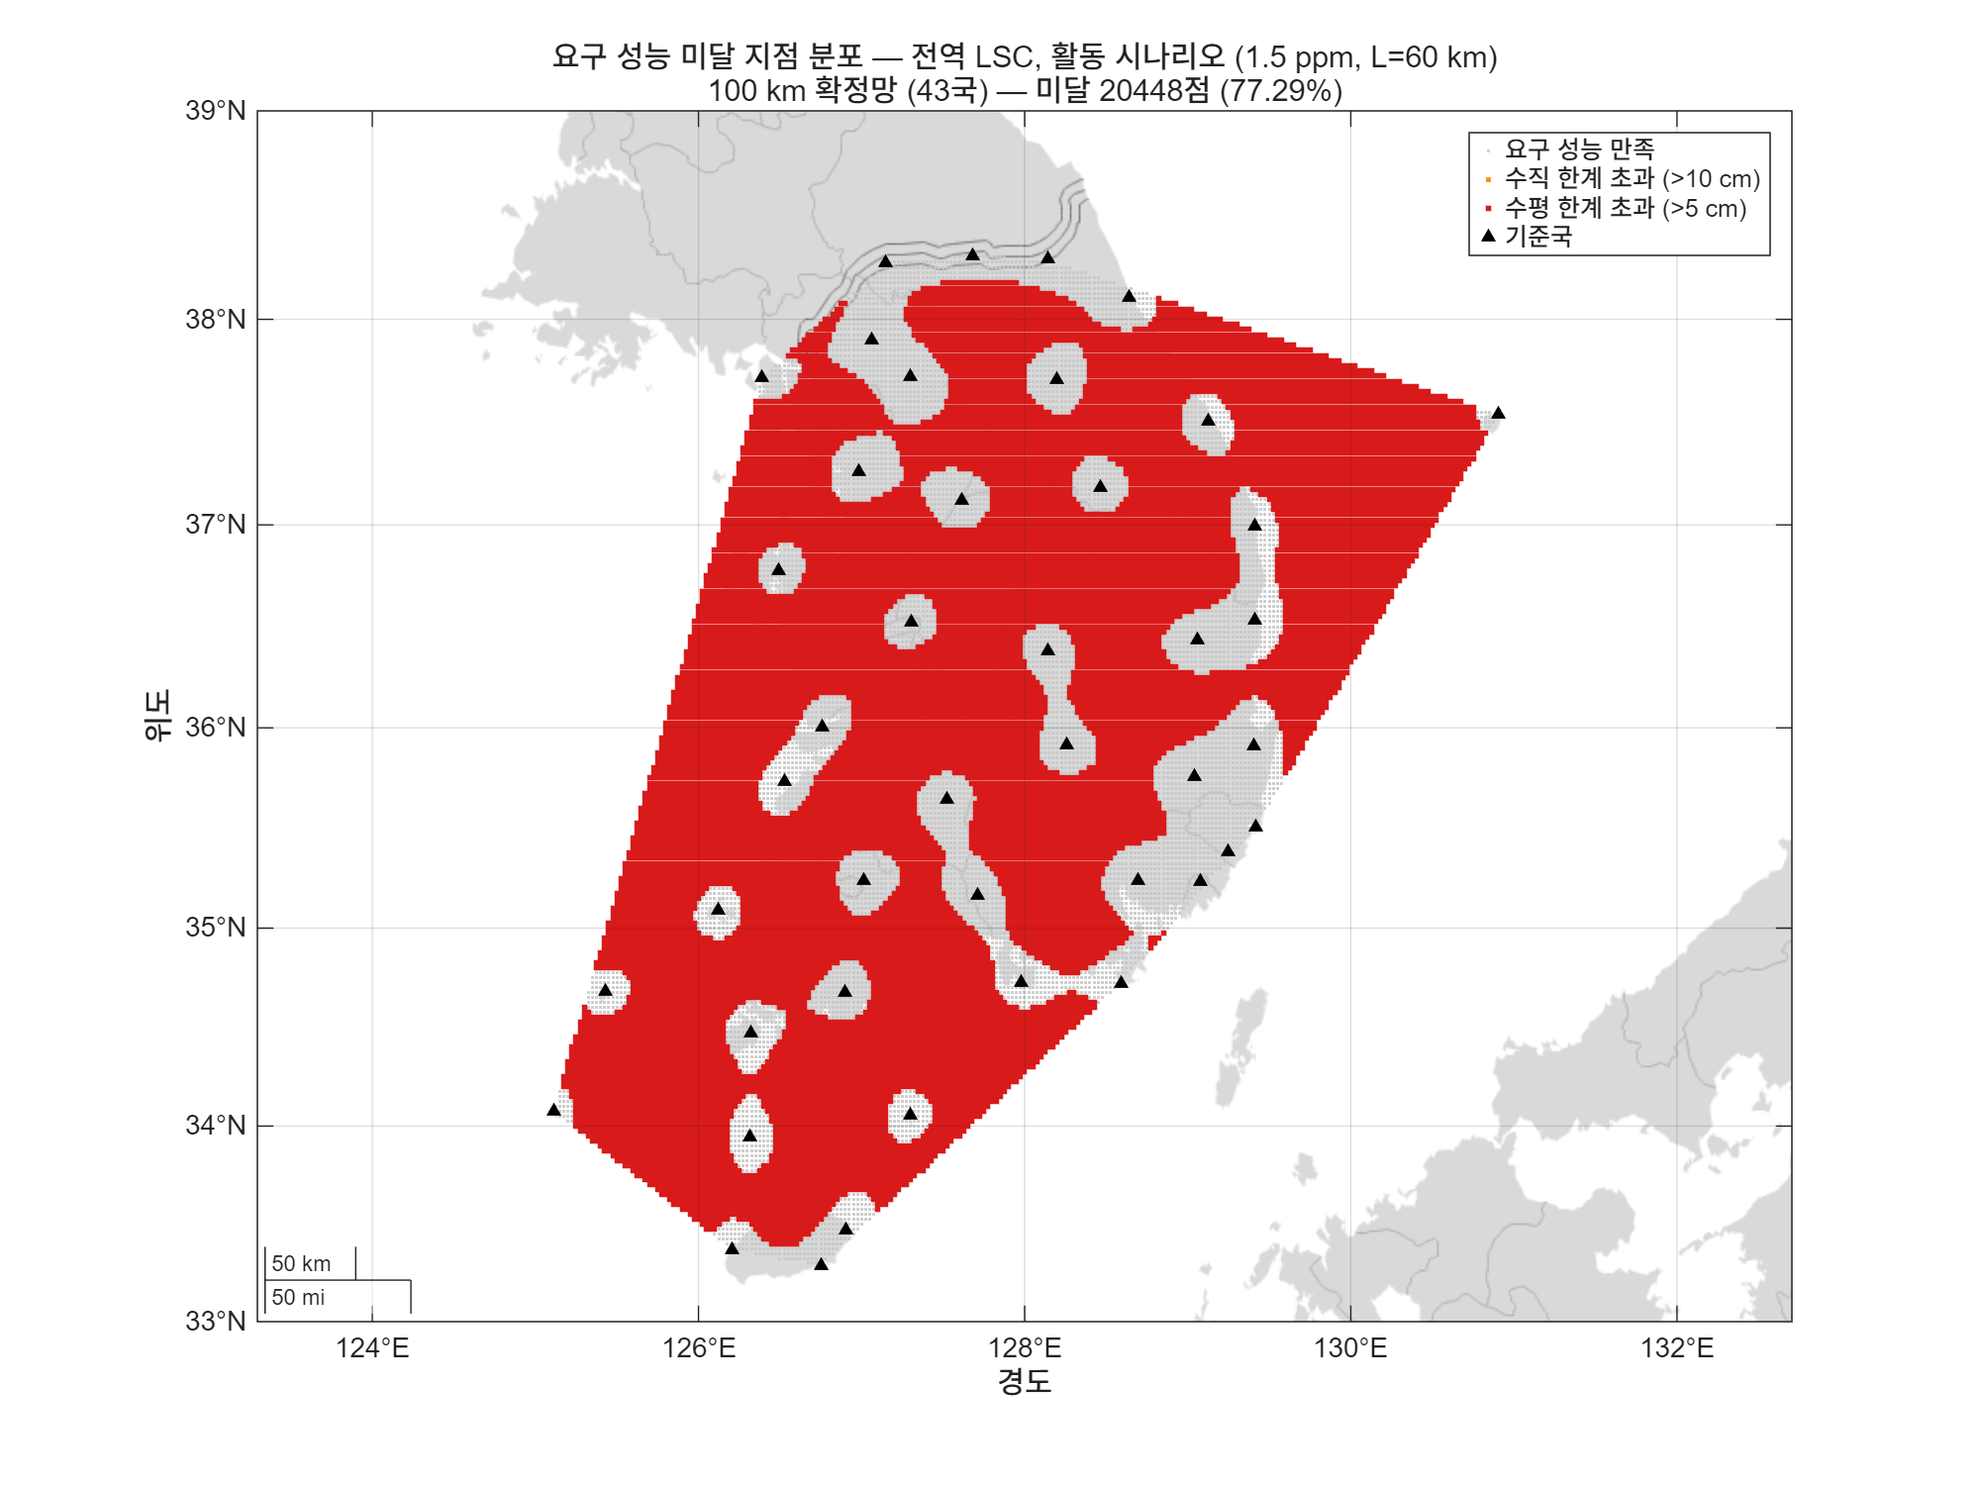
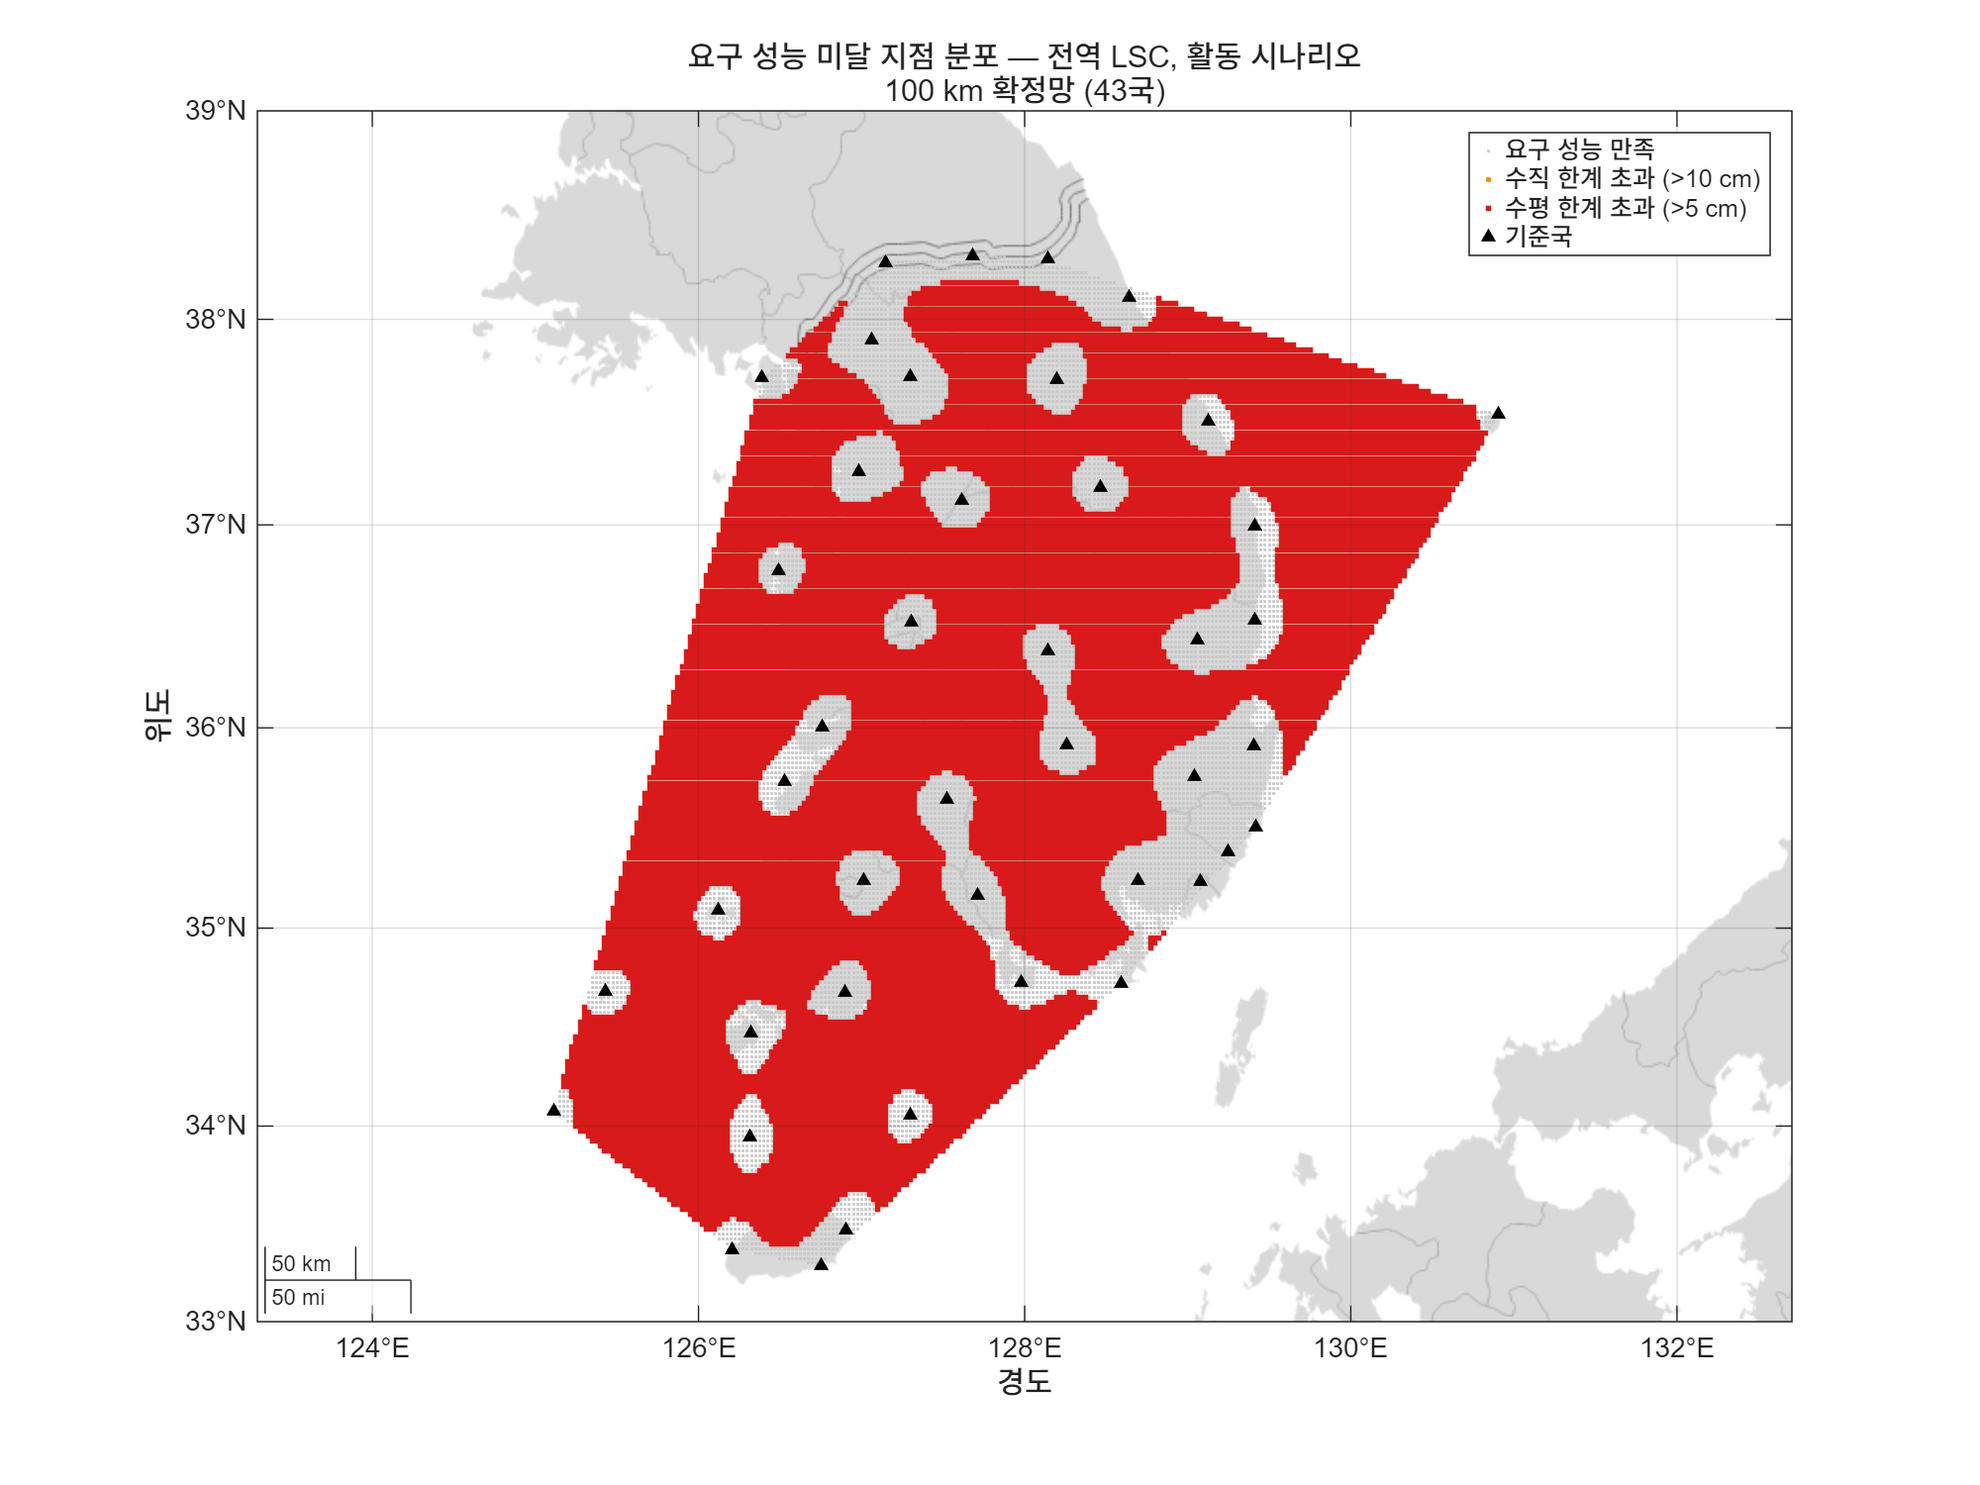
plot 타이틀 규약 정비: 제목 = 주제·조건만, 산출 통계 제거 (개수는 legend로)
- 대상: plot_net_map(legend 개수 표기)·파이프라인 드라이버 3종·run_stats·
  run_plot_qc_status·run_plot_cors·run_plot_integrated(색 설명 -> legend 항목)·
  run_validation·run_validation_lsc(평균/미달 수치 -> 콘솔)·run_param_sweep.
- ppt_* 단계별 figure는 발표 교육용으로 예외 유지. README에 규약 명문화.
- 현행 데이터 figure 일괄 재렌더: 01_망설계(파이프라인·통계·기초 지도),
  04 cors_overlay, 05 _70 사본, 03 b70 세트 8장, etc 실험 시리즈.

Claude-Session: https://claude.ai/code/session_01UYcRwiTz1XWkLPAKJQoUpf

Changed region(s): [[0.279, 0.0307, 0.744, 0.092]]

diff --git a/2차/망최적화/plots/run_plot_integrated.m b/2차/망최적화/plots/run_plot_integrated.m
@@ -63,24 +63,32 @@ for i = 1:numel(gray_tri)               % 회색: 미감시
     n = CL(gray_tri(i),:);
     geoplot(gx, geopolyshape([latR(n);latR(n(1))],[lonR(n);lonR(n(1))]),'k','EdgeColor','k','HandleVisibility','off');
 end
+hCellMon = gobjects(0);  hCellExt = gobjects(0);
 for i = 1:numel(cells_ours)             % 빨강: 우리 감시국 커버
     n = CL(cells_ours(i),:);
-    geoplot(gx, geopolyshape([latR(n);latR(n(1))],[lonR(n);lonR(n(1))]),'EdgeColor','k','LineWidth',0.5,'FaceColor','r','FaceAlpha',0.30,'HandleVisibility','off');
+    h = geoplot(gx, geopolyshape([latR(n);latR(n(1))],[lonR(n);lonR(n(1))]),'EdgeColor','k','LineWidth',0.5,'FaceColor','r','FaceAlpha',0.30,'HandleVisibility','off');
+    if i == 1; hCellMon = h; end
 end
 for i = 1:numel(cells_corsOnly)         % 초록: CORS 추가 커버
     n = CL(cells_corsOnly(i),:);
-    geoplot(gx, geopolyshape([latR(n);latR(n(1))],[lonR(n);lonR(n(1))]),'EdgeColor','k','LineWidth',0.5,'FaceColor',[0 0.7 0.3],'FaceAlpha',0.45,'HandleVisibility','off');
+    h = geoplot(gx, geopolyshape([latR(n);latR(n(1))],[lonR(n);lonR(n(1))]),'EdgeColor','k','LineWidth',0.5,'FaceColor',[0 0.7 0.3],'FaceAlpha',0.45,'HandleVisibility','off');
+    if i == 1; hCellExt = h; end
 end
 E = edges(DT);
 lat_e = [latR(E(:,1)), latR(E(:,2)), NaN(size(E,1),1)]';
 lon_e = [lonR(E(:,1)), lonR(E(:,2)), NaN(size(E,1),1)]';
 geoplot(gx, lat_e(:), lon_e(:), 'k-','LineWidth',0.5,'HandleVisibility','off');
-geoplot(gx, latR, lonR, 'ks','MarkerFaceColor','y','MarkerSize',6);
-geoplot(gx, latM, lonM, 'k^','MarkerFaceColor','b','MarkerSize',5);
-geoplot(gx, cors_lat, cors_lon, 'kv','MarkerFaceColor','m','MarkerSize',7);
-legend(gx, {'기준국','우리 감시국','타기관 CORS'}, 'Location','northeast');
-title(gx, {sprintf('[%s] 통합 감시 커버리지 %.0f km^2 (우리 %.0f + CORS추가 %.0f)', R.method, areaUnion, areaOurs, areaCorsAdd), ...
-           '빨강=우리 감시국 커버, 초록=타기관 CORS 추가 커버'});
+hh = gobjects(3,1);
+hh(1) = geoplot(gx, latR, lonR, 'ks','MarkerFaceColor','y','MarkerSize',6);
+hh(2) = geoplot(gx, latM, lonM, 'k^','MarkerFaceColor','b','MarkerSize',5);
+hh(3) = geoplot(gx, cors_lat, cors_lon, 'kv','MarkerFaceColor','m','MarkerSize',7);
+lbl = {sprintf('기준국 (%d개소)', R.nRef), sprintf('감시국 (%d개소)', R.nMon), ...
+       sprintf('타기관 CORS (%d개소)', numel(cors_lat))};
+cellH = gobjects(0,1);  cellL = {};
+if ~isempty(hCellMon); cellH(end+1,1) = hCellMon; cellL{end+1} = '감시가능 셀 (감시국)'; end
+if ~isempty(hCellExt); cellH(end+1,1) = hCellExt; cellL{end+1} = '추가 감시가능 셀 (타기관 CORS)'; end
+legend(gx, [hh; cellH], [lbl(:); cellL(:)], 'Location','northeast');
+title(gx, sprintf('통합 감시 커버리지 — %s 최적망 + 타기관 CORS', upper(R.method)));
 geolimits(gx, [33 39], [125 132]); hold(gx,'off');
 
 % ---- PNG 자동 저장 (result_fig/04_외부상설감시국) ----

diff --git a/2차/망최적화/run_validation_lsc.m b/2차/망최적화/run_validation_lsc.m
@@ -240,8 +240,8 @@ Sd_o = So{DESIGN,1};  Sd_n = Sn{DESIGN,1};
 okO = common & Ed_o.valid;  okN = common & Ed_n.valid;
 cl = [0, prctile_local([Ed_o.H95cm(okO); Ed_n.H95cm(okN)], 99)];
 mapFile = {'validation_lsc_map_old.png', 'validation_lsc_map_new.png'};
-mapTtl = {sprintf('기존 망 (%d개소) — 평균 %.2f cm', numel(latAll), Sd_o.avgH), ...
-          sprintf('최적화 망 (%d개소) — 평균 %.2f cm', nnz(isRef), Sd_n.avgH)};
+mapTtl = {sprintf('기존 망 (%d개소)', numel(latAll)), ...
+          sprintf('최적화 망 (%d개소)', nnz(isRef))};
 for k = 1:2
     fig2 = figure('Name','validation_lsc_map','Position',[100 100 960 720],'Color','w');
     gx = geoaxes(fig2);
@@ -259,8 +259,8 @@ for k = 1:2
     end
     geolimits(gx, [33 39], [125 131]);
     clim(gx, cl); colorbar(gx);
-    title(gx, {sprintf('수평 측위오차 예측치 (95%%) [cm] — 전역 LSC, %s 시나리오 (%.1f ppm, L=%d km)', ...
-        SCEN(DESIGN).name, SCEN(DESIGN).ppmEN, SCEN(DESIGN).Lkm), mapTtl{k}});
+    title(gx, {sprintf('수평 측위오차 예측치 (95%%) [cm] — 전역 LSC, %s 시나리오', ...
+        SCEN(DESIGN).name), mapTtl{k}});
     print(fig2, fullfile(figDir, mapFile{k}), '-dpng', '-r200');
 end
 
@@ -291,7 +291,7 @@ for pnl = 1:2
             'HorizontalAlignment', 'center', 'VerticalAlignment', 'bottom', 'FontSize', 8);
     end
 end
-sgtitle(sprintf('전리층 활동도 시나리오별 유계 만족율 — 전역 LSC (공통 도메인 %d점, 잠정 계수)', nnz(common)));
+sgtitle('전리층 활동도 시나리오별 유계 만족율 — 전역 LSC');
 print(fig4, fullfile(figDir, 'validation_lsc_scen.png'), '-dpng', '-r200');
 
 fprintf('figure 저장: validation_lsc_cdf/scen.png + map/exceed 각 _old/_new (지도 1개/figure)\n');
@@ -356,8 +356,8 @@ function plot_exceed_fig(figFile, Eold, Enew, glat, glon, latAll, lonAll, isRef,
         geoplot(gx, [glat(hExc);  NaN], [glon(hExc);  NaN], '.', 'Color', RED,  'MarkerSize', 6);
         geoplot(gx, refLatK, refLonK, 'k^', 'MarkerSize', 4, 'MarkerFaceColor', 'k');
         geolimits(gx, [33 39], [125 131]);
-        title(gx, {sprintf('요구 성능 미달 지점 분포 — %s', ruleLabel), ...
-                   sprintf('%s — 요구 성능 미달 %d점 (%.2f%%)', netName, nExc, 100*nExc/nnz(common))});
+        fprintf('  [exceed] %s: 미달 %d점 (%.2f%%)\n', netName, nExc, 100*nExc/nnz(common));
+        title(gx, {sprintf('요구 성능 미달 지점 분포 — %s', ruleLabel), netName});
         legend(gx, {'요구 성능 만족', sprintf('수직 한계 초과 (>%g cm)', verLim), ...
                     sprintf('수평 한계 초과 (>%g cm)', horLim), '기준국'}, 'Location', 'northeast');
         print(fig, fullfile(fDir, [fBase sfx{k} fExt]), '-dpng', '-r200');

diff --git a/2차/망최적화/run_validation.m b/2차/망최적화/run_validation.m
@@ -301,8 +301,8 @@ print(fig2, fullfile(figDir, 'validation_error.png'), '-dpng', '-r200');
 okO = common & EoldG.valid;  okN = common & EnewG.valid;
 cl = [0, prctile_local([EoldG.H95cm(okO); EnewG.H95cm(okN)], 99)];
 mapFile = {'validation_error_map_old.png', 'validation_error_map_new.png'};
-mapTtl = {sprintf('기존 망 (%d개소) — 평균 %.2f cm', numel(latAll), SoldG.avgH), ...
-          sprintf('최적화 망 (%d개소) — 평균 %.2f cm', nnz(isRef), SnewG.avgH)};
+mapTtl = {sprintf('기존 망 (%d개소)', numel(latAll)), ...
+          sprintf('최적화 망 (%d개소)', nnz(isRef))};
 for k = 1:2
     fig3 = figure('Name','validation_error_map','Position',[100 100 960 720],'Color','w');
     gx = geoaxes(fig3);
@@ -398,8 +398,8 @@ function plot_exceed_fig(figFile, Eold, Enew, glat, glon, latAll, lonAll, isRef,
         geoplot(gx, [glat(hExc);  NaN], [glon(hExc);  NaN], '.', 'Color', RED,  'MarkerSize', 6);
         geoplot(gx, refLatK, refLonK, 'k^', 'MarkerSize', 4, 'MarkerFaceColor', 'k');
         geolimits(gx, [33 39], [125 131]);
-        title(gx, {sprintf('요구 성능 미달 지점 분포 — 기준국 선택: %s', ruleLabel), ...
-                   sprintf('%s — 요구 성능 미달 %d점 (%.2f%%)', netName, nExc, 100*nExc/nnz(common))});
+        fprintf('  [exceed/%s] %s: 미달 %d점 (%.2f%%)\n', ruleLabel, netName, nExc, 100*nExc/nnz(common));
+        title(gx, {sprintf('요구 성능 미달 지점 분포 — 기준국 선택: %s', ruleLabel), netName});
         legend(gx, {'요구 성능 만족', sprintf('수직 한계 초과 (>%g cm)', verLim), ...
                     sprintf('수평 한계 초과 (>%g cm)', horLim), '기준국'}, 'Location', 'northeast');
         print(fig, fullfile(fDir, [fBase sfx{k} fExt]), '-dpng', '-r200');

diff --git a/2차/망최적화/run_pipeline.m b/2차/망최적화/run_pipeline.m
@@ -88,18 +88,15 @@ fprintf('상세 통계(3열 표·기선장 분포): plots/run_stats.m 실행\n\n
 figDir = fullfile(thisDir, 'result_fig', '01_망설계');
 if ~isfolder(figDir); mkdir(figDir); end
 [fG, ~] = plot_net_map(lon, lat, isRefG, ...
-    sprintf('감시가능망 면적 최대화 (그리디) — 기준국 %d, 감시국 %d, %.0f km^2', ...
-            sum(isRefG), sum(~isRefG), aG), '그리디 (비교 기준)', qc.monOK);
+    '감시가능망 구성 — 그리디 (비교 기준)', '그리디 (비교 기준)', qc.monOK);
 [fI, ~] = plot_net_map(lon, lat, isRefI, ...
-    sprintf('최적 감시망 구성 (ILP) — 기준국 %d, 감시국 %d, 감시가능 면적 %.0f km^2', ...
-            sum(isRefI), sum(~isRefI), aI), 'ILP (전역최적)', qc.monOK);
+    '최적 감시망 구성 — ILP (전역최적)', 'ILP (전역최적)', qc.monOK);
 
 fB = figure('Name','면적 비교','Color','w','Position',[80 80 960 720]);
 vals = [aG, aI, infoI.lpBound_km2];
 bar(categorical({'그리디','ILP최적','LP상한'},{'그리디','ILP최적','LP상한'}), vals, 0.5);
 ylabel('감시가능망 면적 (km^2)'); grid on;
-title({'감시가능 면적 비교 — Greedy, ILP, LP 상한', ...
-       sprintf('Greedy/ILP = %.1f%%,  ILP/상한 = %.1f%%', 100*aG/aI, 100*aI/infoI.lpBound_km2)});
+title('감시가능 면적 비교 — 그리디 · ILP · LP 상한');
 text(1:3, vals, compose('%.0f',vals), 'HorizontalAlignment','center','VerticalAlignment','bottom');
 
 drawnow;

diff --git a/2차/망최적화/plots/run_stats.m b/2차/망최적화/plots/run_stats.m
@@ -76,7 +76,7 @@ writetable(T, fullfile(optDir,'stats_result.csv'));
 %% 플롯 A: 4패널 (초기/그리디/ILP)
 fA = figure('Name','망 최적화 통계','Color','w','Position',[80 80 1200 900]);
 tl = tiledlayout(2,2,'TileSpacing','compact','Padding','compact');
-title(tl,sprintf('망 최적화 결과 분석 (초기 / 그리디 / ILP, 초기>%dkm 기선 제외)', maxBaseKm));
+title(tl,sprintf('망 최적화 결과 분석 — 초기 · 그리디 · ILP (기선 상한 %d km)', maxBaseKm));
 
 nexttile; hold on;   % 기선장 히스토그램
 histogram(Sb.baselines_ex,'BinWidth',10,'FaceColor',[0.4 0.6 0.9],'FaceAlpha',0.45,'DisplayName',sprintf('초기(%d)',N));
@@ -122,8 +122,9 @@ patch('Faces',CLp(Si.validCells,:),'Vertices',[lonRp latRp],'FaceColor',[1 0.35 
 plot(lonRp,latRp,'ks','MarkerFaceColor','y','MarkerSize',7);
 plot(Si.lonM,Si.latM,'k^','MarkerFaceColor','b','MarkerSize',6);
 xlabel('경도(°)'); ylabel('위도(°)'); grid on;
-legend({'전체 셀','유효셀','기준국','감시국'},'Location','northeast');
-title(sprintf('[ILP] 커버리지 (기준국 %d, 감시국 %d, %.0f km^2)', Si.nRef, Si.nMon, Si.coverage_km2));
+legend({'전체 셀','유효셀', sprintf('기준국 (%d개소)', Si.nRef), ...
+        sprintf('감시국 (%d개소)', Si.nMon)},'Location','northeast');
+title('감시 커버리지 — ILP 최적망');
 xlim([124.5 130.5]); ylim([33.5 38.8]); hold off;
 
 % ---- 플롯 B 즉시 저장 ----

diff --git a/2차/망최적화/plots/run_plot_cors.m b/2차/망최적화/plots/run_plot_cors.m
@@ -133,8 +133,7 @@ cellH = gobjects(0,1);  cellL = {};
 if ~isempty(hCellMon); cellH(end+1,1) = hCellMon; cellL{end+1} = '감시가능 셀 (감시국)'; end
 if ~isempty(hCellExt); cellH(end+1,1) = hCellExt; cellL{end+1} = '추가 감시가능 셀 (외부 상설감시국)'; end
 legend(gx, [hh; cellH], [lbl(:); cellL(:)], 'Location','northeast');
-title(gx, sprintf('최적화 망(기준국 %d·감시국 %d)과 기관별 외부 상설 감시국 %d개소', ...
-      R.nRef, R.nMon, height(ext)));
+title(gx, '최적화 망과 기관별 외부 상설 감시국');
 geolimits(gx, [33 39], [125 132]); hold(gx,'off');
 
 % ---- PNG 자동 저장 (result_fig/04_외부상설감시국) ----

diff --git a/2차/망최적화/plots/plot_net_map.m b/2차/망최적화/plots/plot_net_map.m
@@ -44,7 +44,9 @@ function [fig, gx] = plot_net_map(lon, lat, isRef, ttl, figName, monOK)
 
     geoplot(gx, latR, lonR, 'ks','MarkerFaceColor','y','MarkerSize',6);
     geoplot(gx, latM, lonM, 'k^','MarkerFaceColor','b','MarkerSize',5);
-    legend(gx, {'기준국(Reference)','감시국(Monitor)'}, 'Location','northeast');
+    % 개수는 legend가 담당 (타이틀 규약: 제목 = 주제·조건만, 산출 통계 제외)
+    legend(gx, {sprintf('기준국 (%d개소)', nnz(isRef)), ...
+                sprintf('감시국 (%d개소)', nnz(~isRef))}, 'Location','northeast');
     title(gx, ttl);
     geolimits(gx, [33 39], [125 131]);
     hold(gx,'off');

diff --git a/2차/망최적화/run_greedy_count_max.m b/2차/망최적화/run_greedy_count_max.m
@@ -69,7 +69,7 @@ geoplot(gx, lat_e(:), lon_e(:), 'k-','LineWidth',0.5,'HandleVisibility','off');
 geoplot(gx, latR, lonR, 'ks','MarkerFaceColor','y','MarkerSize',6);
 geoplot(gx, latM, lonM, 'k^','MarkerFaceColor','b','MarkerSize',5);
 legend(gx, {'기준국(Reference)','감시국(Monitor)'}, 'Location','northeast');
-title(gx, sprintf('감시가능망 개수 최대화 (유효셀 %d개 / 기준국 %d, 감시국 %d)', nCells, nRef, nMon));
+title(gx, '감시가능망 개수 최대화 — 그리디');
 geolimits(gx, [33 39], [125 131]); hold(gx,'off');
 
 %% 수렴 곡선 (기준국 수 vs 유효셀 개수)

diff --git a/2차/망최적화/run_greedy_area_max.m b/2차/망최적화/run_greedy_area_max.m
@@ -57,8 +57,7 @@ fprintf('==========================================\n\n');
 
 %% 6) 시각화 — 표준 지도 (plots/plot_net_map.m 공용)
 plot_net_map(lon, lat, isRef, ...
-    sprintf('감시가능망 면적 최대화 (그리디) — 기준국 %d, 감시국 %d, %.0f km^2', ...
-            sum(isRef), sum(~isRef), aG), '그리디 면적 최대화', qc.monOK);
+    '감시가능망 구성 — 그리디', '그리디 면적 최대화', qc.monOK);
 
 % 수렴 곡선 (기준국 수 감소 vs 유효면적 증가)
 figure('Name','그리디 수렴 곡선','Color','w','Position',[80 80 960 720]);

diff --git a/2차/망최적화/run_param_sweep.m b/2차/망최적화/run_param_sweep.m
@@ -77,7 +77,7 @@ fprintf('=======================================\n\n');
 %% 히트맵 시각화
 figure('Name','파라미터 스윕 요약','Color','w','Position',[100 100 1100 420]);
 tl = tiledlayout(1,2,'TileSpacing','compact','Padding','compact');
-title(tl,'감시가능망 면적 최대화 - 파라미터 스윕 (30 조합)');
+title(tl,'감시가능 면적 파라미터 스윕 — 기선 상한 × 외곽 축소');
 
 nexttile;
 imagesc(1:nKm, 1:nSh, AREA); axis xy; colorbar; colormap(gca,'parula');

diff --git a/2차/망최적화/run_ilp_area_max.m b/2차/망최적화/run_ilp_area_max.m
@@ -73,6 +73,5 @@ fprintf('===============================================\n\n');
 
 %% 6) 시각화 — 표준 지도 (plots/plot_net_map.m 공용)
 plot_net_map(lon, lat, isRef, ...
-    sprintf('최적 감시망 구성 (ILP) — 기준국 %d, 감시국 %d, 감시가능 면적 %.0f km^2', ...
-            sum(isRef), sum(~isRef), aI), 'ILP 면적 최대화 (전역최적)', qc.monOK);
+    '최적 감시망 구성 — ILP (전역최적)', 'ILP 면적 최대화 (전역최적)', qc.monOK);
 toc

diff --git a/2차/망최적화/plots/run_plot_qc_status.m b/2차/망최적화/plots/run_plot_qc_status.m
@@ -112,7 +112,7 @@ for k = find(flag)'
 end
 
 legend(gx, hh, lbl, 'Location', 'northeast', 'FontSize', 8);
-title(gx, sprintf('QC 기준국 선별 상태 (maxBaseKm=%g) — cut-off 전환·외곽 예외·평균 품질 미만 기준국', R.maxBaseKm));
+title(gx, sprintf('QC 기준국 선별 상태 — 기선 상한 %g km', R.maxBaseKm));
 geolimits(gx, [33 39], [125 132]); hold(gx, 'off');
 
 figSave = fullfile(optDir, 'result_fig', '01_망설계');
